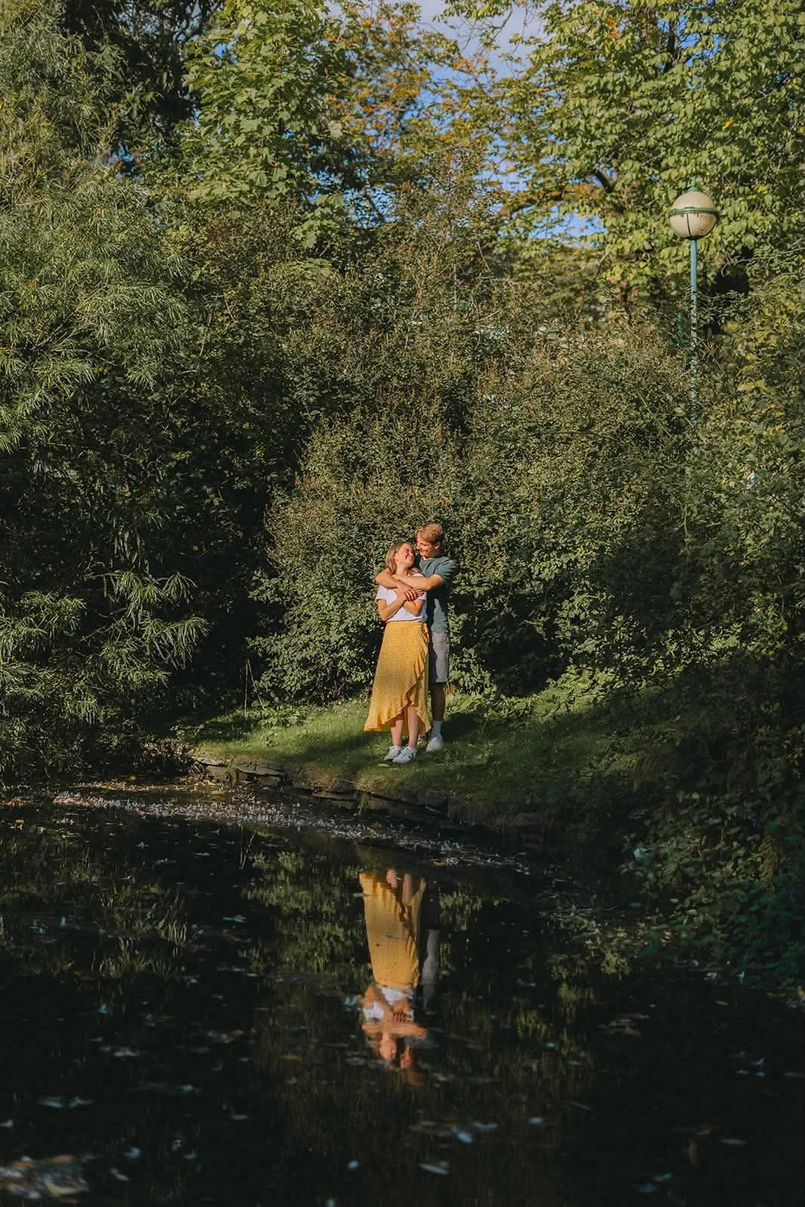
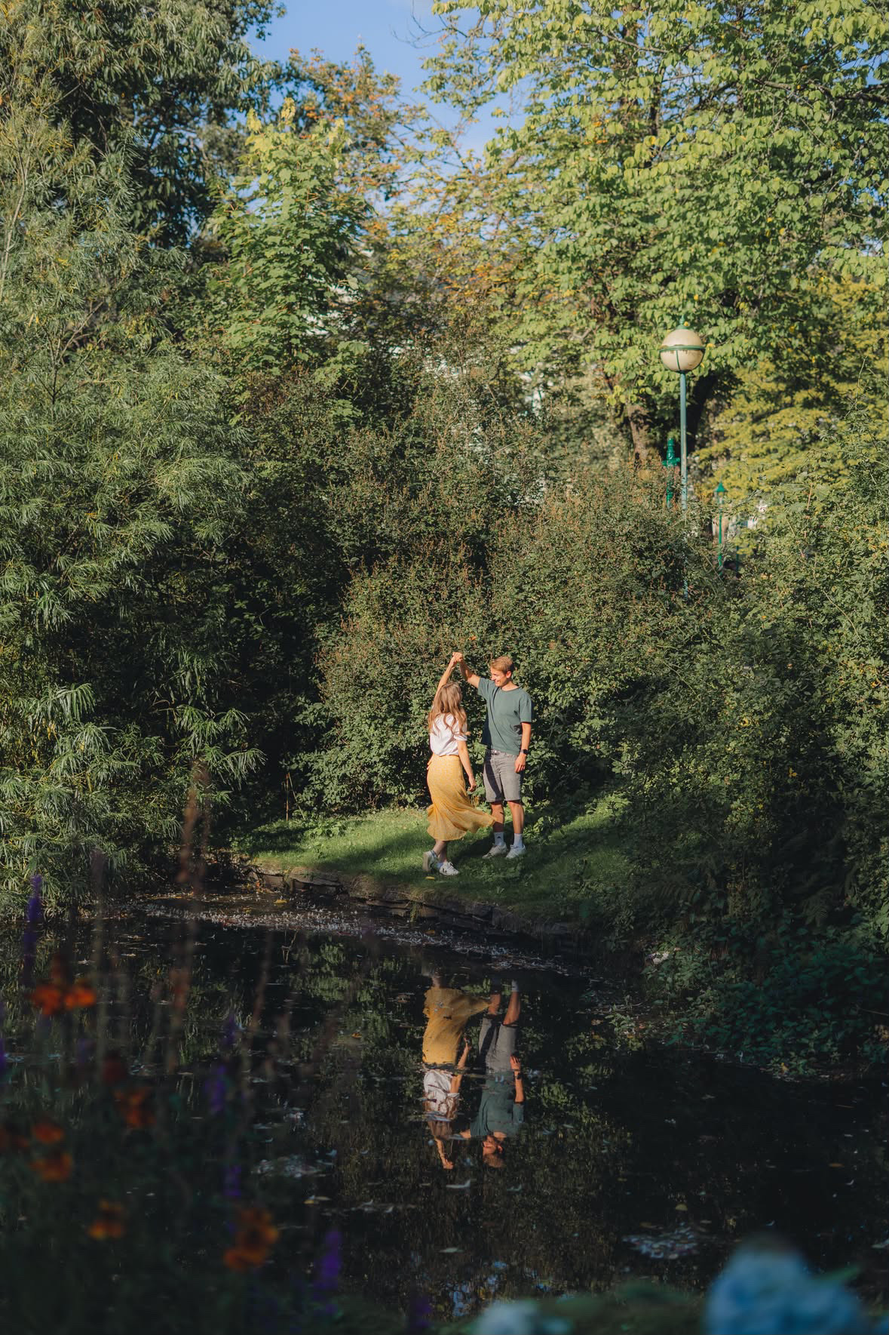
Nytt dansebilde, større navn
Bytter dambildet med dansebildet i banneret og på toppen av Noen glimt.
Større «Viktoria & Håvard» på forsiden og undersidene. Bannerteksten er flyttet ned.

Claude-Session: https://claude.ai/code/session_01C9A1kzsyVvvLmtMYAPoXYw

diff --git a/assets/css/style.css b/assets/css/style.css
@@ -179,7 +179,7 @@ a.snart { cursor: not-allowed; opacity: .55; }
   display: grid; justify-items: center; gap: .2rem; text-align: center; padding: 0 1rem;
   text-shadow: 0 1px 3px rgba(0,0,0,.4), 0 2px 18px rgba(0,0,0,.45);
 }
-.hero-navn { font-weight: 500; font-size: clamp(.8rem, 2.6vw, 1.05rem); letter-spacing: .34em; text-transform: uppercase; }
+.hero-navn { font-weight: 500; font-size: clamp(1.05rem, 3.8vw, 1.7rem); letter-spacing: .3em; text-transform: uppercase; }
 .hero-dato { font-style: italic; font-weight: 400; font-size: clamp(1.1rem, 3.4vw, 1.5rem); letter-spacing: .12em; }
 .hero-tittel { font-family: var(--skrift); font-size: clamp(3rem, 11vw, 6.4rem); line-height: 1.1; margin-top: .2rem; }
 .hero-bunn {
@@ -216,7 +216,7 @@ a.snart { cursor: not-allowed; opacity: .55; }
 .undertopp::after { bottom: 0; height: 60%; background: linear-gradient(rgba(20,22,18,0), rgba(20,22,18,.35) 45%, rgba(20,22,18,.74)); }
 .undertopp-tekst { position: absolute; z-index: 2; left: 0; right: 0; bottom: clamp(2rem, 6vw, 3.5rem); display: grid; justify-items: center; gap: .3rem; text-align: center; padding: 0 1rem; text-shadow: 0 1px 3px rgba(0,0,0,.4), 0 2px 18px rgba(0,0,0,.45); }
 .undertopp-tekst .eyebrow { color: #fff; }
-.undertopp h1 { font-family: var(--skrift); font-size: clamp(3rem, 10vw, 5.6rem); line-height: 1.15; }
+.undertopp h1 { font-family: var(--skrift); font-size: clamp(3.5rem, 12vw, 6.6rem); line-height: 1.15; }
 .og { font-family: var(--brod); font-style: italic; font-weight: 300; font-size: .6em; color: var(--lysgull); padding: 0 .08em; }
 
 /* ---------- Forside: invitasjon og ringer ---------- */
@@ -239,8 +239,8 @@ a.snart { cursor: not-allowed; opacity: .55; }
 /* ---------- Banner med parallakse ---------- */
 .banner { position: relative; height: clamp(340px, 62vw, 620px); overflow: hidden; color: #fff; }
 .banner > img { position: absolute; left: 0; width: 100%; top: -12%; height: 124%; object-fit: cover; object-position: var(--pos, 50% 50%); will-change: transform; }
-.banner::after { content: ""; position: absolute; inset: 0; background: radial-gradient(ellipse at center, rgba(20,22,18,.5), rgba(20,22,18,.3) 70%); }
-.banner .tekst { position: absolute; inset: 0; z-index: 2; display: grid; place-content: center; text-align: center; padding: 1rem; gap: .5rem; text-shadow: 0 1px 3px rgba(0,0,0,.4), 0 2px 18px rgba(0,0,0,.5); }
+.banner::after { content: ""; position: absolute; inset: 0; background: linear-gradient(rgba(20,22,18,.12), rgba(20,22,18,.18) 45%, rgba(20,22,18,.72)); }
+.banner .tekst { position: absolute; inset: 0; z-index: 2; display: grid; place-content: end center; padding-bottom: clamp(2rem, 6vw, 4rem) !important; text-align: center; padding: 1rem; gap: .5rem; text-shadow: 0 1px 3px rgba(0,0,0,.4), 0 2px 18px rgba(0,0,0,.5); }
 .banner .tekst .eyebrow { color: #fff; }
 .banner h2 { font-family: var(--skrift); font-size: clamp(2.6rem, 8vw, 5rem); line-height: 1.15; }
 

diff --git a/historie.html b/historie.html
@@ -33,8 +33,8 @@
   </header>
 
   <!-- ===================== Toppbilde ===================== -->
-  <header class="undertopp" style="--pos: 50% 52%">
-    <img src="assets/bilder/topp-historie.jpg" alt="Viktoria og Håvard i en grønn park, speilet i dammen" fetchpriority="high">
+  <header class="undertopp" style="--pos: 50% 60%">
+    <img src="assets/bilder/topp-historie.jpg" alt="Viktoria og Håvard danser ved dammen i parken, speilet i vannet" fetchpriority="high">
     <div class="undertopp-tekst">
       <p class="eyebrow">Noen glimt</p>
       <h1>Viktoria <span class="og">&amp;</span> Håvard</h1>

diff --git a/index.html b/index.html
@@ -92,7 +92,7 @@
     </section>
 
     <section class="banner" aria-label="Vi gleder oss til å feire med dere" style="--pos: 50% 55%">
-      <img src="assets/bilder/banner-vi-gleder-oss.jpg" alt="Viktoria og Håvard i en grønn park, speilet i dammen" loading="lazy">
+      <img src="assets/bilder/banner-vi-gleder-oss.jpg" alt="Viktoria og Håvard danser ved dammen i parken, speilet i vannet" loading="lazy">
       <div class="tekst">
         <h2>Vi gleder oss til å feire med dere</h2>
       </div>
